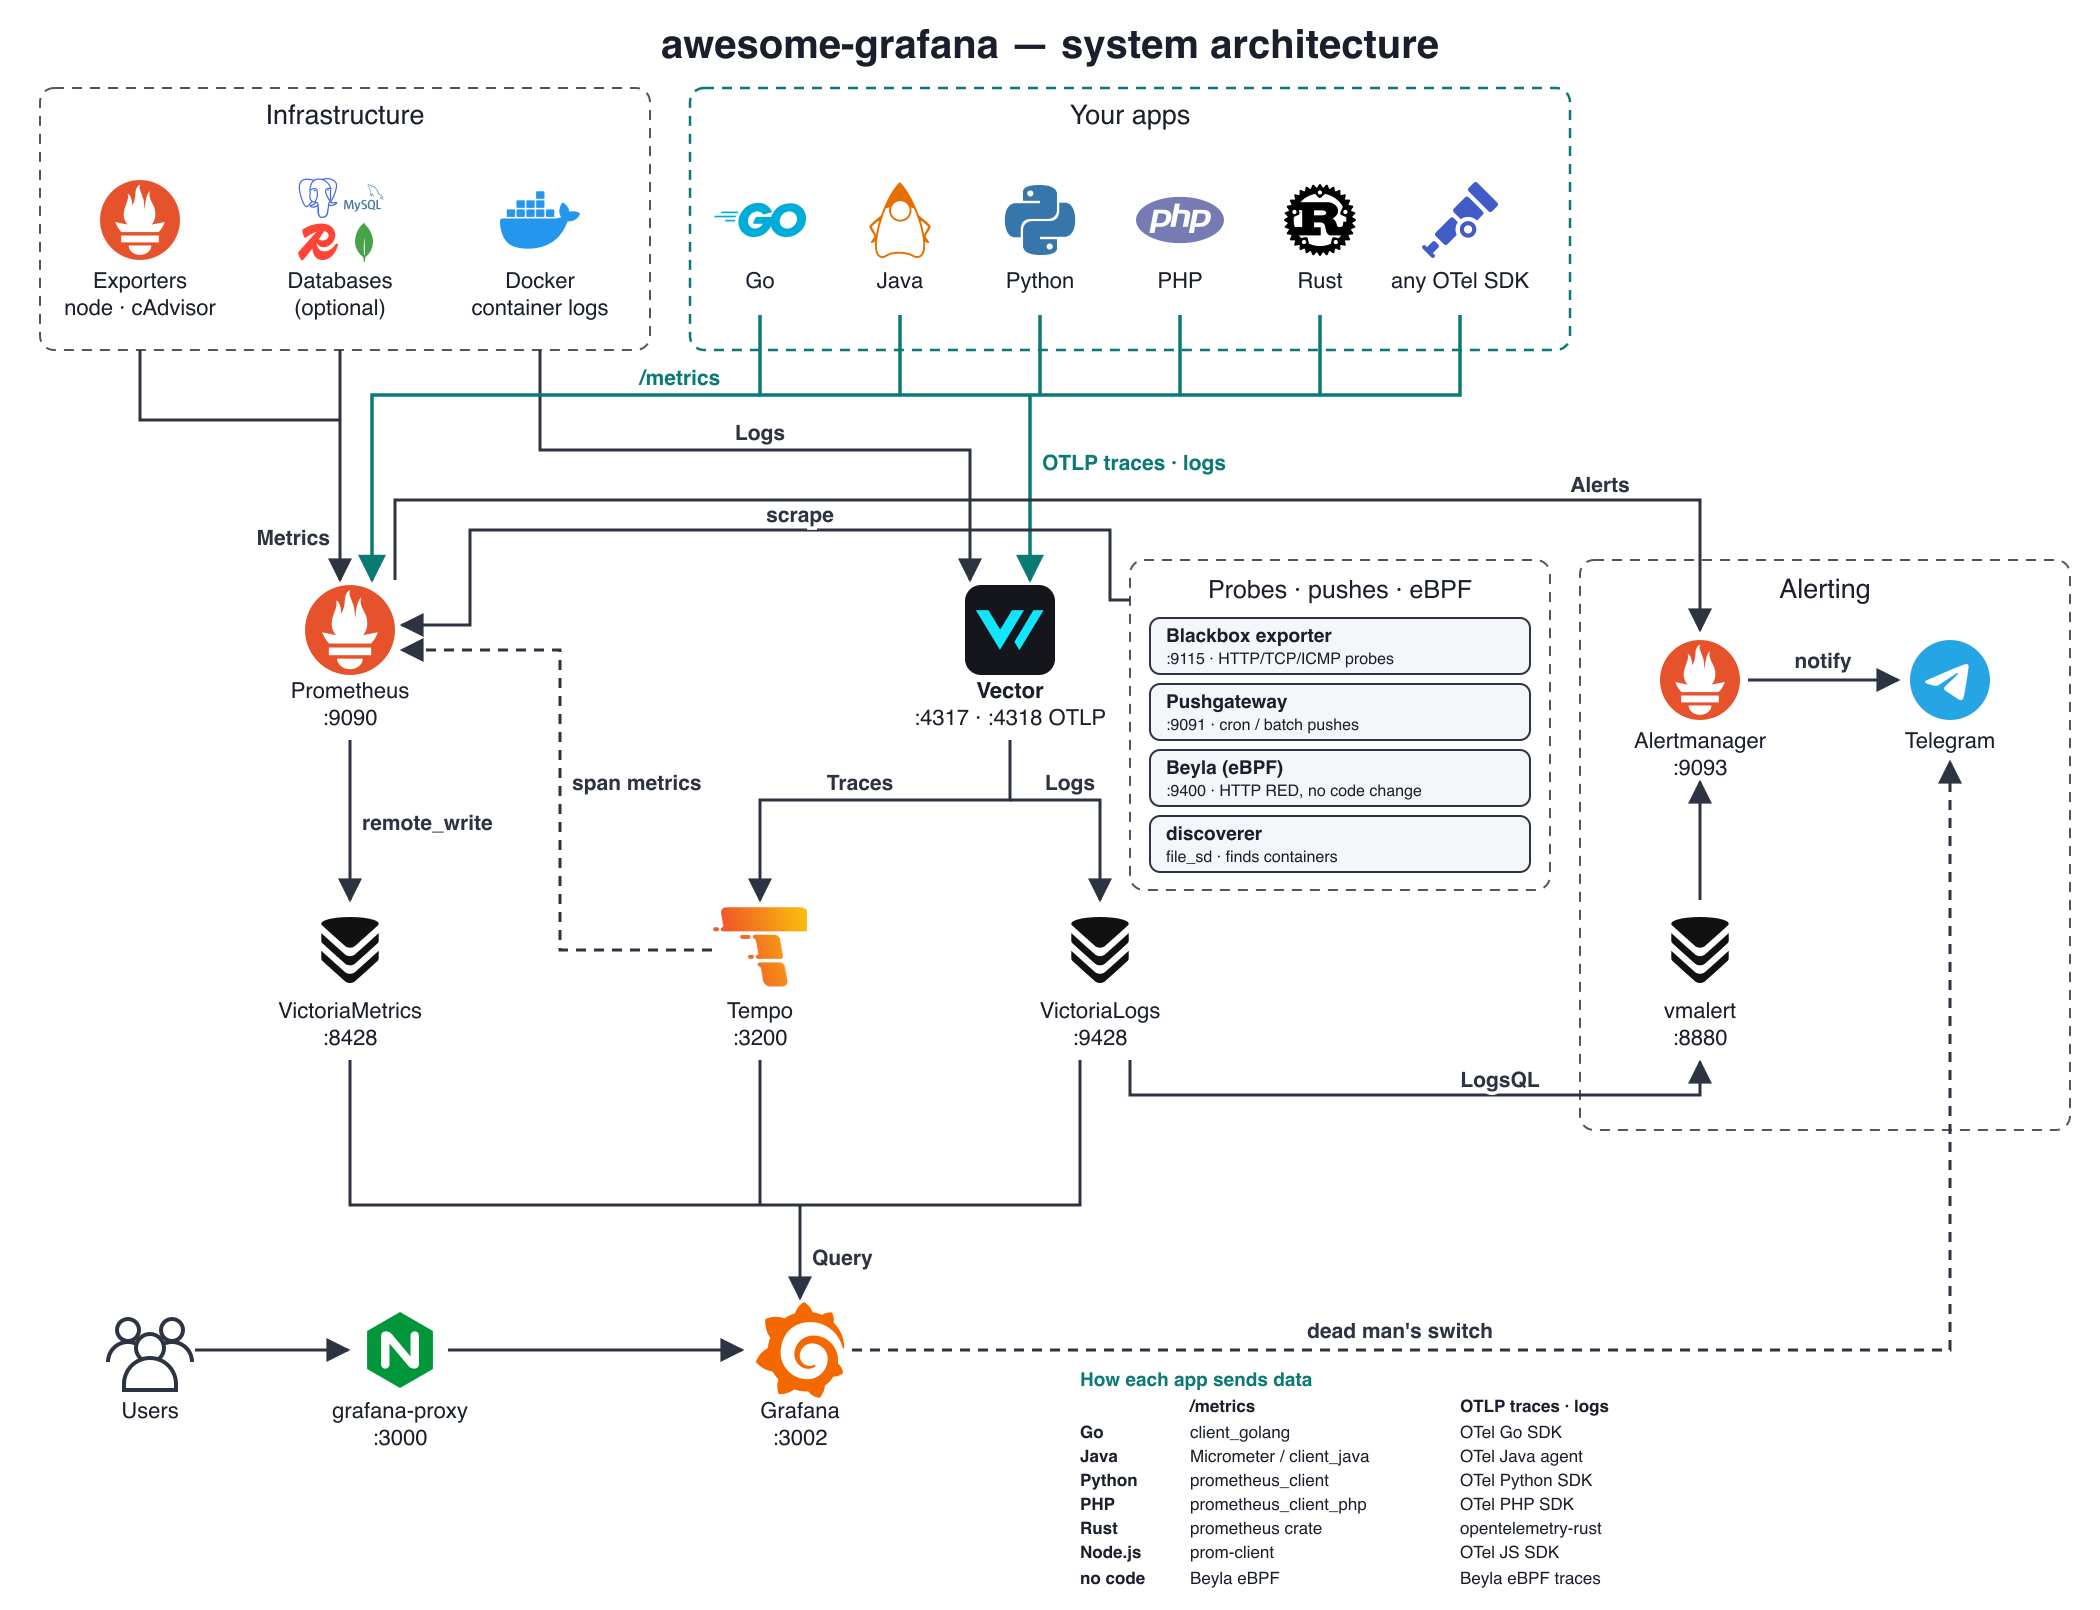
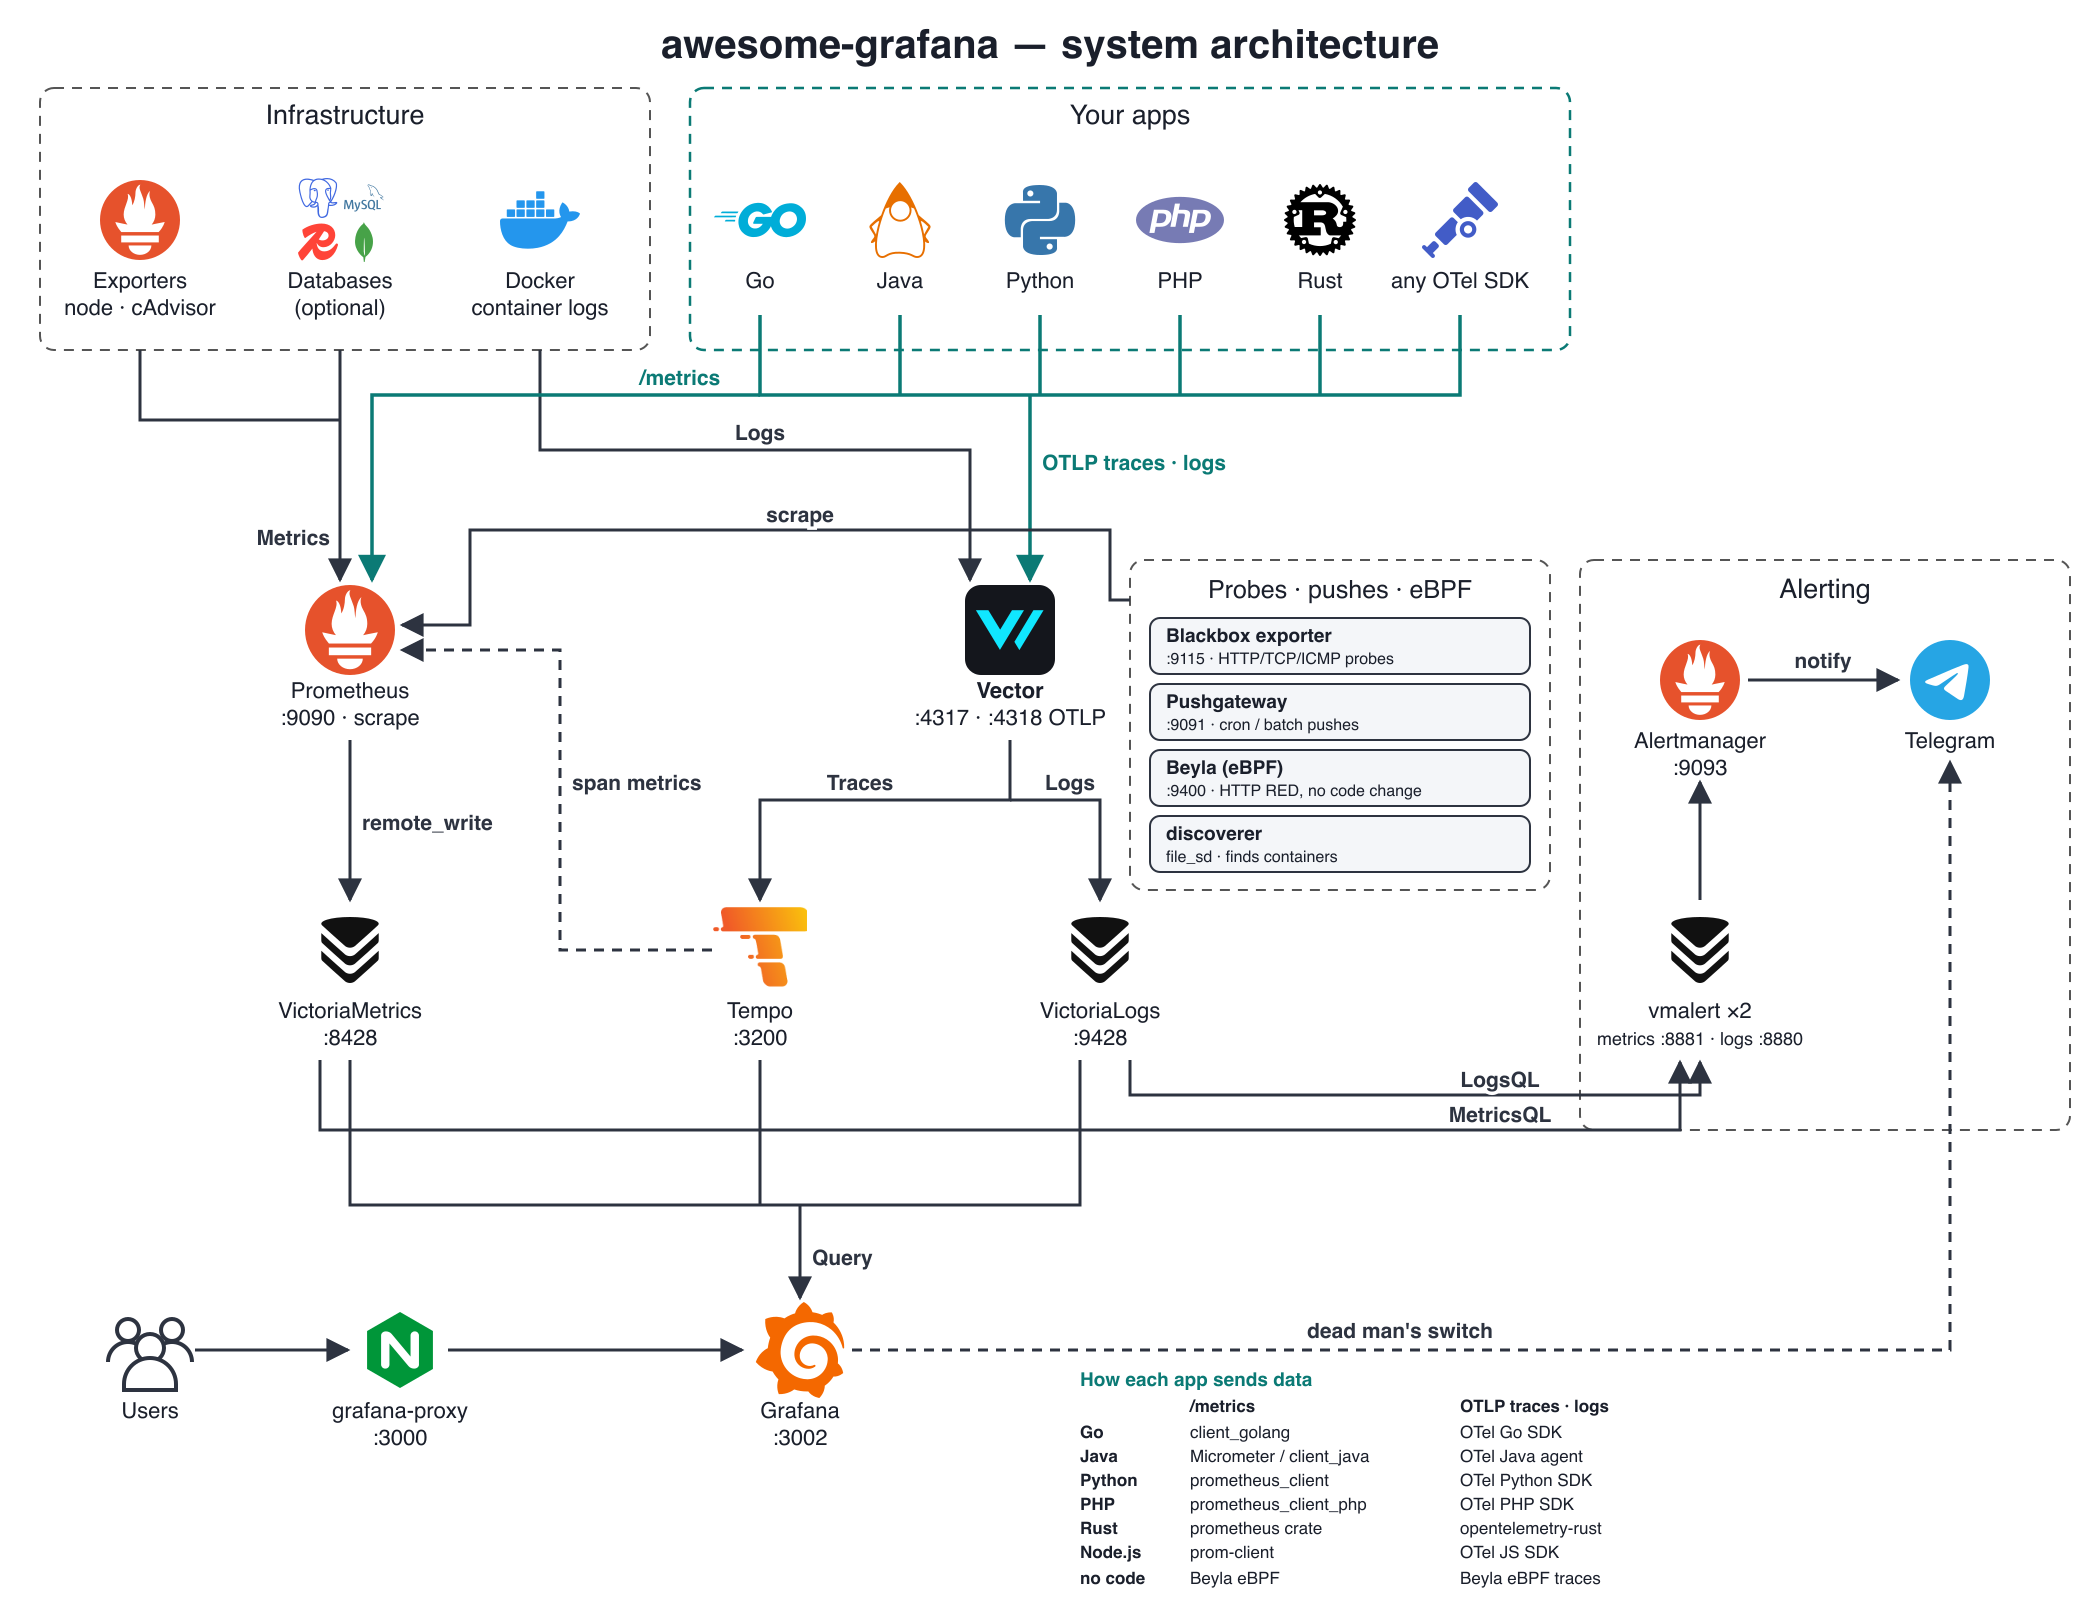
Refactor Grafana dashboards and Prometheus configuration for vmalert integration
- Updated Grafana dashboards to replace Prometheus rule metrics with vmalert metrics, ensuring accurate monitoring of rule evaluations and notifications.
- Modified alert descriptions and expressions to reflect the transition from Prometheus to vmalert for rule evaluations and notifications.
- Adjusted Prometheus configuration to remove alerting rules and evaluation intervals, as these are now handled by vmalert-metrics.
- Enhanced alert rules in Prometheus to monitor vmalert execution errors and notification failures, improving alerting accuracy and reliability.

diff --git a/small/grafana/generators/alerts.py b/small/grafana/generators/alerts.py
@@ -35,12 +35,12 @@ d.add(stat("Telegram failures (1h)", 'sum(increase(alertmanager_notifications_fa
            decimals=0, link=view(UID, SLUG, P_TG, "Delivery"), desc="Messages Alertmanager failed to deliver. Check the bot token, chat id and network."), 3, 4)
 d.add(stat("Active silences", 'max(alertmanager_silences{state="active"}) or vector(0)', th=steps((1, "blue")), color_mode="value",
            link=view(UID, SLUG, P_AM, "Alertmanager"), desc="Silences hiding alerts right now. Forgotten silences hide real problems."), 3, 4)
-d.add(stat("Rule failures (15m)", 'sum(increase(prometheus_rule_evaluation_failures_total[15m])) + sum(increase(vmalert_execution_errors_total[15m])) or vector(0)',
+d.add(stat("Rule failures (15m)", 'sum(increase(vmalert_execution_errors_total[15m])) or vector(0)',
            th=steps((1, "red")), decimals=0, link=view(UID, SLUG, P_PROM, "Rule evaluation"),
-           desc="Rule evaluations that errored (bad query, datasource down) in Prometheus and vmalert. A failing rule never fires."), 3, 4)
-d.add(stat("Notifications dropped (1h)", 'sum(increase(prometheus_notifications_dropped_total[1h])) + sum(increase(vmalert_alerts_send_errors_total[1h])) or vector(0)',
-           th=steps((1, "red")), decimals=0, link=view(UID, SLUG, P_PROM, "Prometheus → Alertmanager"),
-           desc="Alerts Prometheus or vmalert could not hand to Alertmanager."), 3, 4)
+           desc="Rule group evaluations that errored (bad query, datasource down) in both vmalerts. A failing rule never fires."), 3, 4)
+d.add(stat("Notifications dropped (1h)", 'sum(increase(vmalert_alerts_send_errors_total[1h])) or vector(0)',
+           th=steps((1, "red")), decimals=0, link=view(UID, SLUG, P_PROM, "vmalert → Alertmanager"),
+           desc="Alerts vmalert could not hand to Alertmanager."), 3, 4)
 
 d.row("Firing now")
 now = table("Firing now", [
@@ -109,33 +109,30 @@ d.add(ts("Silences", [tgt('max by (state) (alertmanager_silences)', "{{state}}")
 d.add(ts("Suppressed notifications", [tgt('sum by (reason) (rate(alertmanager_notifications_suppressed_total[5m])) * 60', "{{reason}}")], draw="bars", fill=70,
          desc="Notifications not sent because of a silence, inhibition or the maintenance window (time_intervals)."),12, 10)
 
-d.row("Prometheus rules — evaluation and sending", collapsed=True)
-pr = ts("Rule group evaluation time vs interval", [tgt('max by (rule_group) (prometheus_rule_group_last_duration_seconds) / max by (rule_group) (prometheus_rule_group_interval_seconds)', "{{rule_group}}")],
+d.row("vmalert-metrics — metric rules (prometheus/rules, PromQL) evaluation and sending", collapsed=True)
+pr = ts("Rule group evaluation time vs interval", [tgt('max by (group) (vmalert_iteration_duration_seconds{instance=~".*vmalert-metrics.*", quantile="0.99"}) / max by (group) (vmalert_iteration_interval_seconds{instance=~".*vmalert-metrics.*"})', "{{group}}")],
         unit="percentunit", th=steps((0.5, "yellow"), (0.9, "red")), fill=0,
-        desc="How much of its interval each group needs. Near 100% = the group cannot keep up and starts missing evaluations.")
+        desc="How much of its interval each group needs (p99). Near 100% = the group cannot keep up and starts missing evaluations.")
 pr["id"] = P_PROM
 d.add(pr, 12, 8)
-d.add(ts("Evaluation failures & missed iterations", [tgt('sum by (rule_group) (increase(prometheus_rule_evaluation_failures_total[5m]))', "{{rule_group}} failures"),
-                                                    tgt('sum by (rule_group) (increase(prometheus_rule_group_iterations_missed_total[5m]))', "{{rule_group}} missed")],
+d.add(ts("Evaluation failures & missed iterations", [tgt('sum by (group) (increase(vmalert_execution_errors_total{instance=~".*vmalert-metrics.*"}[5m]))', "{{group}} failures"),
+                                                    tgt('sum by (group) (increase(vmalert_iteration_missed_total{instance=~".*vmalert-metrics.*"}[5m]))', "{{group}} missed")],
          draw="bars", fill=70, desc="Should be 0. Failures = broken query; missed = group too slow."), 12, 8)
 d.add(table("Rule groups", [
-    tgt('max by (rule_group) (prometheus_rule_group_rules)', instant=True, fmt="table"),
-    tgt('max by (rule_group) (prometheus_rule_group_interval_seconds)', instant=True, fmt="table"),
-    tgt('max by (rule_group) (prometheus_rule_group_last_duration_seconds)', instant=True, fmt="table"),
-    tgt('max by (rule_group) (prometheus_rule_group_last_evaluation_samples)', instant=True, fmt="table"),
-    tgt('time() - max by (rule_group) (prometheus_rule_group_last_evaluation_timestamp_seconds)', instant=True, fmt="table"),
-], desc="Every rule group loaded by Prometheus (file;group).", sort=("Last duration", True),
-    rename={"Value #A": "Rules", "Value #B": "Interval", "Value #C": "Last duration", "Value #D": "Samples", "Value #E": "Last evaluated"},
-    overrides=[col("rule_group", width=380), col("Interval", unit="s"), col("Last duration", unit="s", cell=TXT, th=steps((1, "yellow"), (10, "red")), decimals=3),
-               col("Last evaluated", unit="s", cell=TXT, th=steps((120, "yellow"), (600, "red")), decimals=0)]), 24, 8)
-d.add(ts("Prometheus → Alertmanager", [tgt('sum(rate(prometheus_notifications_sent_total[5m])) * 60', "sent/min"),
-                                       tgt('sum(rate(prometheus_notifications_errors_total[5m])) * 60', "errors/min"),
-                                       tgt('sum(rate(prometheus_notifications_dropped_total[5m])) * 60', "dropped/min"),
-                                       tgt('max(prometheus_notifications_queue_length)', "queue length")], fill=0,
-         desc="Alert notifications Prometheus hands to Alertmanager. Errors/dropped > 0 = Alertmanager unreachable."), 12, 8)
-d.add(ts("Notification latency", [tgt('max by (quantile) (prometheus_notifications_latency_seconds)', "p{{quantile}}")], unit="s", fill=0), 12, 8)
+    tgt('count by (group) (vmalert_alerting_rules_last_evaluation_samples{instance=~".*vmalert-metrics.*"}) or count by (group) (vmalert_recording_rules_last_evaluation_samples{instance=~".*vmalert-metrics.*"})', instant=True, fmt="table"),
+    tgt('max by (group) (vmalert_iteration_interval_seconds{instance=~".*vmalert-metrics.*"})', instant=True, fmt="table"),
+    tgt('max by (group) (vmalert_iteration_duration_seconds{instance=~".*vmalert-metrics.*", quantile="0.99"})', instant=True, fmt="table"),
+    tgt('sum by (group) (vmalert_alerting_rules_last_evaluation_samples{instance=~".*vmalert-metrics.*"}) or sum by (group) (vmalert_recording_rules_last_evaluation_samples{instance=~".*vmalert-metrics.*"})', instant=True, fmt="table"),
+], desc="Every rule group loaded by vmalert-metrics (prometheus/rules/*.yml).", sort=("Duration p99", True),
+    rename={"Value #A": "Rules", "Value #B": "Interval", "Value #C": "Duration p99", "Value #D": "Samples"},
+    overrides=[col("group", width=380), col("Interval", unit="s"), col("Duration p99", unit="s", cell=TXT, th=steps((1, "yellow"), (10, "red")), decimals=3)]), 24, 8)
+d.add(ts("vmalert-metrics → Alertmanager", [tgt('sum(rate(vmalert_alerts_sent_total{instance=~".*vmalert-metrics.*"}[5m])) * 60', "sent/min"),
+                                           tgt('sum(rate(vmalert_alerts_send_errors_total{instance=~".*vmalert-metrics.*"}[5m])) * 60', "errors/min")], fill=0,
+         desc="Alert notifications handed to Alertmanager. Errors > 0 = Alertmanager unreachable."), 12, 8)
+d.add(ts("Remote write (recording rules + alert state → VictoriaMetrics)", [tgt('sum(rate(vmalert_remotewrite_sent_rows_total{instance=~".*vmalert-metrics.*"}[5m]))', "rows/s"),
+      tgt('sum(rate(vmalert_remotewrite_errors_total{instance=~".*vmalert-metrics.*"}[5m])) + sum(rate(vmalert_remotewrite_dropped_rows_total{instance=~".*vmalert-metrics.*"}[5m]))', "errors+dropped/s")], fill=0), 12, 8)
 
-d.row("vmalert — log rules (LogsQL)", collapsed=True)
+d.row("vmalert — log rules (vmalert/rules, LogsQL)", collapsed=True)
 vm = ts("Log alerts firing / pending", [tgt('sum(vmalert_alerts_firing)', "firing"), tgt('sum(vmalert_alerts_pending)', "pending")], fill=0,
         desc="Alerts from vmalert's LogsQL rules (vmalert/rules/*.yml).")
 vm["id"] = P_VMA

diff --git a/small/README.md b/small/README.md
@@ -11,16 +11,16 @@ Self-hosted observability stack in one `docker compose up`: metrics, logs, trace
 | Metrics collection | Prometheus, node-exporter, cAdvisor, blackbox-exporter, pushgateway, discoverer (auto-finds app `/metrics`) |
 | Logs, traces | Vector (Docker logs, host nginx log files, OTLP), Beyla (eBPF) |
 | Storage | VictoriaMetrics (metrics, 12 months), VictoriaLogs (logs, 90 days / 20 GiB), Tempo (traces + span metrics) |
-| Alerting | Prometheus rules + vmalert (LogsQL rules) → Alertmanager → Telegram |
+| Alerting | vmalert ×2: metric rules (PromQL on VictoriaMetrics) + log rules (LogsQL on VictoriaLogs) → Alertmanager → Telegram |
 | UI | Grafana (provisioned datasources and dashboards), grafana-proxy (themed nginx front) |
 | Optional exporters | PostgreSQL, Redis (your own databases, enabled via profiles) |
 
 ## How data flows
 
-1. **Metrics** — Prometheus scrapes exporters and apps (static jobs + `discoverer` file_sd targets), evaluates recording/alert rules, and `remote_write`s everything to VictoriaMetrics. Grafana reads metrics from VictoriaMetrics.
+1. **Metrics** — Prometheus scrapes exporters and apps (static jobs + `discoverer` file_sd targets) and `remote_write`s everything to VictoriaMetrics. vmalert-metrics evaluates the recording/alert rules (`prometheus/rules/`) against VictoriaMetrics. Grafana reads metrics from VictoriaMetrics.
 2. **Logs** — Vector reads container stdout through the Docker socket and nginx file logs, parses levels, masks secrets, turns lines into metrics (`vector_*` on `:9598`) and ships them to VictoriaLogs. vmalert runs LogsQL alert rules against VictoriaLogs.
 3. **Traces** — apps send OTLP to Vector (`vector:4317` gRPC, `vector:4318` HTTP inside Docker; `34317` / `34318` on the host), Vector forwards traces to Tempo, metrics to Prometheus, logs to VictoriaLogs. No CORS: browser SDKs need a reverse proxy in front. Tempo's metrics generator writes span metrics (with exemplars) back to Prometheus.
-4. **Alerts** — Prometheus and vmalert fire into Alertmanager, which sends Telegram messages (critical loud, warnings silent).
+4. **Alerts** — vmalert-metrics and vmalert (logs) fire into Alertmanager, which sends Telegram messages (critical loud, warnings silent).
 
 ## Quick start
 
@@ -156,7 +156,7 @@ The links in the top bar go to the same dashboards from everywhere and keep the 
 
 ### 4. Alerts
 
-Rules live in `prometheus/rules/alerts.yml` (metrics) and `vmalert/` (log patterns). Critical alerts come to
+Rules live in `prometheus/rules/alerts.yml` (metrics, run by vmalert-metrics) and `vmalert/` (log patterns). Critical alerts come to
 Telegram with sound, warnings silently; each message links to the query, the dashboard and the logs, and has
 a one-click Silence. Containers labelled `container.team` / `container.env` show them in the message.
 Targets with `env: demo` (the demo cache, queue, proxy) are routed nowhere, so demos never page you.
@@ -225,7 +225,8 @@ The check exits non-zero on a query error or an unexpected empty panel, so it ca
 | http://localhost:38428/vmui | VictoriaMetrics UI |
 | http://localhost:39428/select/vmui | VictoriaLogs UI |
 | http://localhost:39093 | Alertmanager |
-| http://localhost:38880 | vmalert |
+| http://localhost:38881 | vmalert-metrics (metric rules) |
+| http://localhost:38880 | vmalert (log rules) |
 | http://localhost:33200 | Tempo API |
 | http://localhost:38686/health | Vector health |
 | http://localhost:38080 | cAdvisor |
